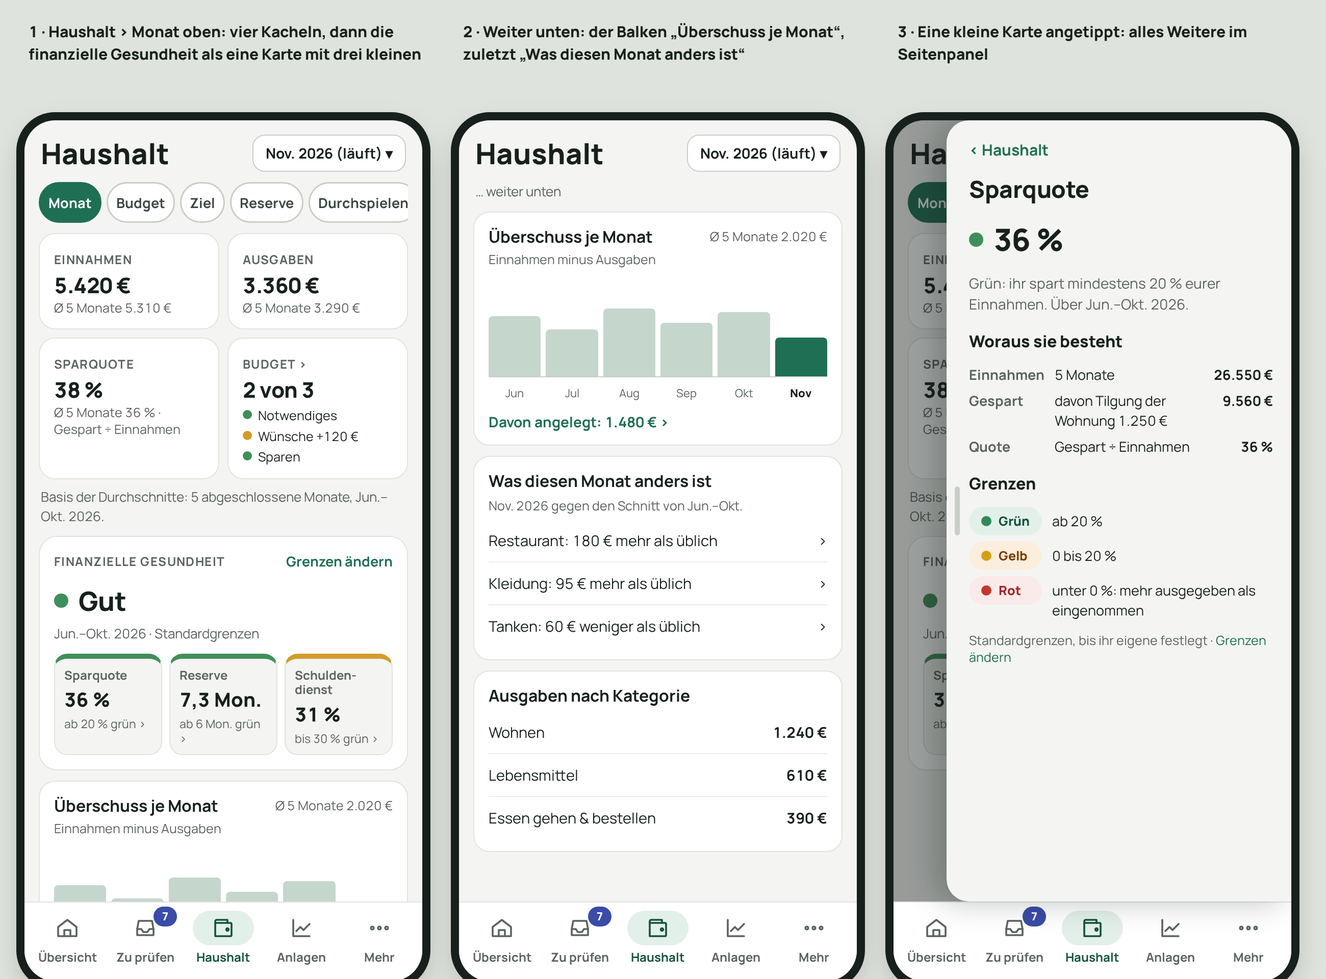
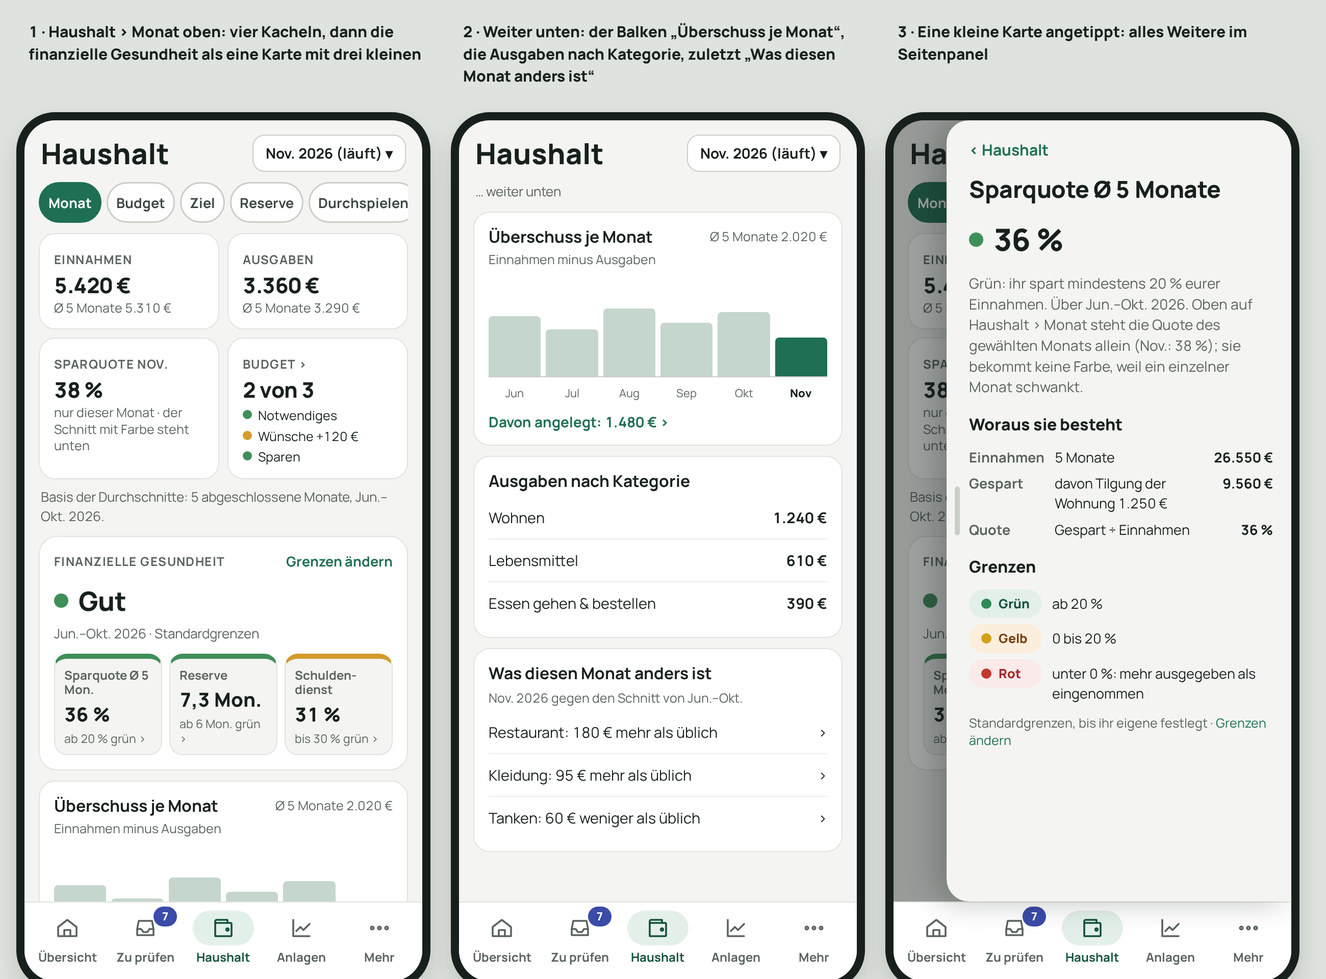
docs: mockup 19g with Luis's answers (categories after the bars, both savings rates named)
Claude-Session: https://claude.ai/code/session_01AnDYAHwbfbCynEyrzGtX59

diff --git a/docs/mockups/19g-monat-phone.html b/docs/mockups/19g-monat-phone.html
@@ -354,7 +354,7 @@ body{background:#dfe3dd}
 <body><div class="frames"><div><p class="cap">1 · Haushalt › Monat oben: vier Kacheln, dann die finanzielle Gesundheit als eine Karte mit drei kleinen</p><div class="frame"><div style="position:absolute;inset:0 0 78px 0;overflow:hidden"><div class="mhead"><div><h1 style="font-size:28px;font-weight:800">Haushalt</h1></div><span class="msel">Nov. 2026 (läuft) ▾</span></div><div class="ph-body tight"><div class="tbar5"><a class="chip on" href="#">Monat</a><a class="chip" href="#">Budget</a><a class="chip" href="#">Ziel</a><a class="chip" href="#">Reserve</a><a class="chip" href="#">Durchspielen</a></div><div class="kp">
 <a class="t" href="#"><span class="k">Einnahmen</span><span class="v">5.420 €</span><span class="sub">Ø 5 Monate 5.310 €</span></a>
 <a class="t" href="#"><span class="k">Ausgaben</span><span class="v">3.360 €</span><span class="sub">Ø 5 Monate 3.290 €</span></a>
-<a class="t" href="#"><span class="k">Sparquote</span><span class="v">38 %</span><span class="sub">Ø 5 Monate 36 % · Gespart ÷ Einnahmen</span></a>
+<a class="t" href="#"><span class="k">Sparquote Nov.</span><span class="v">38 %</span><span class="sub">nur dieser Monat · der Schnitt mit Farbe steht unten</span></a>
 <a class="t" href="#"><span class="k">Budget ›</span><span class="v">2 von 3</span><span class="bdots"><span><i class="dot dg"></i>Notwendiges</span><span><i class="dot da"></i>Wünsche +120 €</span><span><i class="dot dg"></i>Sparen</span></span></a>
 </div>
 <p class="hint" style="margin:-2px 2px 0">Basis der Durchschnitte: 5 abgeschlossene Monate, Jun.–Okt. 2026.</p><div class="health">
@@ -362,22 +362,22 @@ body{background:#dfe3dd}
 <span class="hword"><i></i>Gut</span>
 <span class="sub" style="font-size:13px;margin-top:-6px">Jun.–Okt. 2026 · Standardgrenzen</span>
 <div class="hfigs">
-<a class="hfig g" href="#"><span class="n">Sparquote</span><b>36 %</b><span class="w">ab 20 % grün ›</span></a>
+<a class="hfig g" href="#"><span class="n">Sparquote Ø 5 Mon.</span><b>36 %</b><span class="w">ab 20 % grün ›</span></a>
 <a class="hfig g" href="#"><span class="n">Reserve</span><b>7,3 Mon.</b><span class="w">ab 6 Mon. grün ›</span></a>
 <a class="hfig a" href="#"><span class="n">Schulden&shy;dienst</span><b>31 %</b><span class="w">bis 30 % grün ›</span></a>
 </div></div><div class="t" style="display:flex;flex-direction:column;gap:2px"><div class="between"><b style="font-size:16px">Überschuss je Monat</b><span class="sub" style="font-size:12.5px">Ø 5 Monate 2.020 €</span></div>
 <span class="sub" style="font-size:12.5px">Einnahmen minus Ausgaben</span>
 <div class="bars"><span class="b"><i style="height:62%"></i></span><span class="b"><i style="height:48%"></i></span><span class="b"><i style="height:70%"></i></span><span class="b"><i style="height:55%"></i></span><span class="b"><i style="height:66%"></i></span><span class="b on"><i style="height:40%"></i></span></div><div class="blab" style="margin-top:6px"><span class="">Jun</span><span class="">Jul</span><span class="">Aug</span><span class="">Sep</span><span class="">Okt</span><span class="on">Nov</span></div>
-<a href="#" style="font-size:14px;font-weight:700;margin-top:8px">Davon angelegt: 1.480 € ›</a></div></div></div><nav class="bar"><a class="" href="#"><span class="ic"><svg width="24" height="24" viewBox="0 0 24 24" fill="none" stroke="currentColor" stroke-width="1.8" stroke-linecap="round" stroke-linejoin="round" aria-hidden="true"><path d="M3 11 12 4l9 7v9H3z"/><path d="M9 20v-6h6v6"/></svg></span>Übersicht</a><a class="" href="#"><span class="ic"><svg width="24" height="24" viewBox="0 0 24 24" fill="none" stroke="currentColor" stroke-width="1.8" stroke-linecap="round" stroke-linejoin="round" aria-hidden="true"><path d="M4 13h4l2 3h4l2-3h4"/><path d="M5.5 5h13l1.5 8v6H4v-6z"/></svg></span>Zu prüfen<span class="count">7</span></a><a class="on" href="#"><span class="ic"><svg width="24" height="24" viewBox="0 0 24 24" fill="none" stroke="currentColor" stroke-width="1.8" stroke-linecap="round" stroke-linejoin="round" aria-hidden="true"><path d="M4 7h15a1 1 0 0 1 1 1v11a1 1 0 0 1-1 1H4z"/><path d="M4 7V5.5A1.5 1.5 0 0 1 5.5 4H16v3"/><circle cx="16" cy="13.5" r="1.2"/></svg></span>Haushalt</a><a class="" href="#"><span class="ic"><svg width="24" height="24" viewBox="0 0 24 24" fill="none" stroke="currentColor" stroke-width="1.8" stroke-linecap="round" stroke-linejoin="round" aria-hidden="true"><path d="M4 4v16h16"/><path d="m7 15 4-4 3 3 6-6"/></svg></span>Anlagen</a><a class="" href="#"><span class="ic"><svg width="24" height="24" viewBox="0 0 24 24" fill="none" stroke="currentColor" stroke-width="1.8" stroke-linecap="round" stroke-linejoin="round" aria-hidden="true"><circle cx="5" cy="12" r="1.4"/><circle cx="12" cy="12" r="1.4"/><circle cx="19" cy="12" r="1.4"/></svg></span>Mehr</a></nav></div></div><div><p class="cap">2 · Weiter unten: der Balken „Überschuss je Monat“, zuletzt „Was diesen Monat anders ist“</p><div class="frame"><div style="position:absolute;inset:0 0 78px 0;overflow:hidden"><div class="mhead"><div><h1 style="font-size:28px;font-weight:800">Haushalt</h1></div><span class="msel">Nov. 2026 (läuft) ▾</span></div><div class="ph-body tight"><p class="hint" style="margin:0 2px">… weiter unten</p><div class="t" style="display:flex;flex-direction:column;gap:2px"><div class="between"><b style="font-size:16px">Überschuss je Monat</b><span class="sub" style="font-size:12.5px">Ø 5 Monate 2.020 €</span></div>
+<a href="#" style="font-size:14px;font-weight:700;margin-top:8px">Davon angelegt: 1.480 € ›</a></div></div></div><nav class="bar"><a class="" href="#"><span class="ic"><svg width="24" height="24" viewBox="0 0 24 24" fill="none" stroke="currentColor" stroke-width="1.8" stroke-linecap="round" stroke-linejoin="round" aria-hidden="true"><path d="M3 11 12 4l9 7v9H3z"/><path d="M9 20v-6h6v6"/></svg></span>Übersicht</a><a class="" href="#"><span class="ic"><svg width="24" height="24" viewBox="0 0 24 24" fill="none" stroke="currentColor" stroke-width="1.8" stroke-linecap="round" stroke-linejoin="round" aria-hidden="true"><path d="M4 13h4l2 3h4l2-3h4"/><path d="M5.5 5h13l1.5 8v6H4v-6z"/></svg></span>Zu prüfen<span class="count">7</span></a><a class="on" href="#"><span class="ic"><svg width="24" height="24" viewBox="0 0 24 24" fill="none" stroke="currentColor" stroke-width="1.8" stroke-linecap="round" stroke-linejoin="round" aria-hidden="true"><path d="M4 7h15a1 1 0 0 1 1 1v11a1 1 0 0 1-1 1H4z"/><path d="M4 7V5.5A1.5 1.5 0 0 1 5.5 4H16v3"/><circle cx="16" cy="13.5" r="1.2"/></svg></span>Haushalt</a><a class="" href="#"><span class="ic"><svg width="24" height="24" viewBox="0 0 24 24" fill="none" stroke="currentColor" stroke-width="1.8" stroke-linecap="round" stroke-linejoin="round" aria-hidden="true"><path d="M4 4v16h16"/><path d="m7 15 4-4 3 3 6-6"/></svg></span>Anlagen</a><a class="" href="#"><span class="ic"><svg width="24" height="24" viewBox="0 0 24 24" fill="none" stroke="currentColor" stroke-width="1.8" stroke-linecap="round" stroke-linejoin="round" aria-hidden="true"><circle cx="5" cy="12" r="1.4"/><circle cx="12" cy="12" r="1.4"/><circle cx="19" cy="12" r="1.4"/></svg></span>Mehr</a></nav></div></div><div><p class="cap">2 · Weiter unten: der Balken „Überschuss je Monat“, die Ausgaben nach Kategorie, zuletzt „Was diesen Monat anders ist“</p><div class="frame"><div style="position:absolute;inset:0 0 78px 0;overflow:hidden"><div class="mhead"><div><h1 style="font-size:28px;font-weight:800">Haushalt</h1></div><span class="msel">Nov. 2026 (läuft) ▾</span></div><div class="ph-body tight"><p class="hint" style="margin:0 2px">… weiter unten</p><div class="t" style="display:flex;flex-direction:column;gap:2px"><div class="between"><b style="font-size:16px">Überschuss je Monat</b><span class="sub" style="font-size:12.5px">Ø 5 Monate 2.020 €</span></div>
 <span class="sub" style="font-size:12.5px">Einnahmen minus Ausgaben</span>
 <div class="bars"><span class="b"><i style="height:62%"></i></span><span class="b"><i style="height:48%"></i></span><span class="b"><i style="height:70%"></i></span><span class="b"><i style="height:55%"></i></span><span class="b"><i style="height:66%"></i></span><span class="b on"><i style="height:40%"></i></span></div><div class="blab" style="margin-top:6px"><span class="">Jun</span><span class="">Jul</span><span class="">Aug</span><span class="">Sep</span><span class="">Okt</span><span class="on">Nov</span></div>
-<a href="#" style="font-size:14px;font-weight:700;margin-top:8px">Davon angelegt: 1.480 € ›</a></div><div class="t" style="display:flex;flex-direction:column;gap:4px"><b style="font-size:16px">Was diesen Monat anders ist</b><span class="sub" style="font-size:12.5px">Nov. 2026 gegen den Schnitt von Jun.–Okt.</span>
-<div class="rows"><a href="#"><span>Restaurant: 180 € mehr als üblich</span><span>›</span></a><a href="#"><span>Kleidung: 95 € mehr als üblich</span><span>›</span></a><a href="#"><span>Tanken: 60 € weniger als üblich</span><span>›</span></a></div></div><div class="t" style="display:flex;flex-direction:column;gap:4px"><b style="font-size:16px">Ausgaben nach Kategorie</b>
+<a href="#" style="font-size:14px;font-weight:700;margin-top:8px">Davon angelegt: 1.480 € ›</a></div><div class="t" style="display:flex;flex-direction:column;gap:4px"><b style="font-size:16px">Ausgaben nach Kategorie</b>
 <div class="rows"><a href="#"><span>Wohnen</span><b>1.240 €</b></a><a href="#"><span>Lebensmittel</span><b>610 €</b></a><a href="#"><span>Essen gehen &amp; bestellen</span><b>390 €</b></a></div></div>
-</div></div><nav class="bar"><a class="" href="#"><span class="ic"><svg width="24" height="24" viewBox="0 0 24 24" fill="none" stroke="currentColor" stroke-width="1.8" stroke-linecap="round" stroke-linejoin="round" aria-hidden="true"><path d="M3 11 12 4l9 7v9H3z"/><path d="M9 20v-6h6v6"/></svg></span>Übersicht</a><a class="" href="#"><span class="ic"><svg width="24" height="24" viewBox="0 0 24 24" fill="none" stroke="currentColor" stroke-width="1.8" stroke-linecap="round" stroke-linejoin="round" aria-hidden="true"><path d="M4 13h4l2 3h4l2-3h4"/><path d="M5.5 5h13l1.5 8v6H4v-6z"/></svg></span>Zu prüfen<span class="count">7</span></a><a class="on" href="#"><span class="ic"><svg width="24" height="24" viewBox="0 0 24 24" fill="none" stroke="currentColor" stroke-width="1.8" stroke-linecap="round" stroke-linejoin="round" aria-hidden="true"><path d="M4 7h15a1 1 0 0 1 1 1v11a1 1 0 0 1-1 1H4z"/><path d="M4 7V5.5A1.5 1.5 0 0 1 5.5 4H16v3"/><circle cx="16" cy="13.5" r="1.2"/></svg></span>Haushalt</a><a class="" href="#"><span class="ic"><svg width="24" height="24" viewBox="0 0 24 24" fill="none" stroke="currentColor" stroke-width="1.8" stroke-linecap="round" stroke-linejoin="round" aria-hidden="true"><path d="M4 4v16h16"/><path d="m7 15 4-4 3 3 6-6"/></svg></span>Anlagen</a><a class="" href="#"><span class="ic"><svg width="24" height="24" viewBox="0 0 24 24" fill="none" stroke="currentColor" stroke-width="1.8" stroke-linecap="round" stroke-linejoin="round" aria-hidden="true"><circle cx="5" cy="12" r="1.4"/><circle cx="12" cy="12" r="1.4"/><circle cx="19" cy="12" r="1.4"/></svg></span>Mehr</a></nav></div></div><div><p class="cap">3 · Eine kleine Karte angetippt: alles Weitere im Seitenpanel</p><div class="frame"><div style="position:absolute;inset:0 0 78px 0;overflow:hidden"><div class="mhead"><div><h1 style="font-size:28px;font-weight:800">Haushalt</h1></div><span class="msel">Nov. 2026 (läuft) ▾</span></div><div class="ph-body tight"><div class="tbar5"><a class="chip on" href="#">Monat</a><a class="chip" href="#">Budget</a><a class="chip" href="#">Ziel</a><a class="chip" href="#">Reserve</a><a class="chip" href="#">Durchspielen</a></div><div class="kp">
+<div class="t" style="display:flex;flex-direction:column;gap:4px"><b style="font-size:16px">Was diesen Monat anders ist</b><span class="sub" style="font-size:12.5px">Nov. 2026 gegen den Schnitt von Jun.–Okt.</span>
+<div class="rows"><a href="#"><span>Restaurant: 180 € mehr als üblich</span><span>›</span></a><a href="#"><span>Kleidung: 95 € mehr als üblich</span><span>›</span></a><a href="#"><span>Tanken: 60 € weniger als üblich</span><span>›</span></a></div></div></div></div><nav class="bar"><a class="" href="#"><span class="ic"><svg width="24" height="24" viewBox="0 0 24 24" fill="none" stroke="currentColor" stroke-width="1.8" stroke-linecap="round" stroke-linejoin="round" aria-hidden="true"><path d="M3 11 12 4l9 7v9H3z"/><path d="M9 20v-6h6v6"/></svg></span>Übersicht</a><a class="" href="#"><span class="ic"><svg width="24" height="24" viewBox="0 0 24 24" fill="none" stroke="currentColor" stroke-width="1.8" stroke-linecap="round" stroke-linejoin="round" aria-hidden="true"><path d="M4 13h4l2 3h4l2-3h4"/><path d="M5.5 5h13l1.5 8v6H4v-6z"/></svg></span>Zu prüfen<span class="count">7</span></a><a class="on" href="#"><span class="ic"><svg width="24" height="24" viewBox="0 0 24 24" fill="none" stroke="currentColor" stroke-width="1.8" stroke-linecap="round" stroke-linejoin="round" aria-hidden="true"><path d="M4 7h15a1 1 0 0 1 1 1v11a1 1 0 0 1-1 1H4z"/><path d="M4 7V5.5A1.5 1.5 0 0 1 5.5 4H16v3"/><circle cx="16" cy="13.5" r="1.2"/></svg></span>Haushalt</a><a class="" href="#"><span class="ic"><svg width="24" height="24" viewBox="0 0 24 24" fill="none" stroke="currentColor" stroke-width="1.8" stroke-linecap="round" stroke-linejoin="round" aria-hidden="true"><path d="M4 4v16h16"/><path d="m7 15 4-4 3 3 6-6"/></svg></span>Anlagen</a><a class="" href="#"><span class="ic"><svg width="24" height="24" viewBox="0 0 24 24" fill="none" stroke="currentColor" stroke-width="1.8" stroke-linecap="round" stroke-linejoin="round" aria-hidden="true"><circle cx="5" cy="12" r="1.4"/><circle cx="12" cy="12" r="1.4"/><circle cx="19" cy="12" r="1.4"/></svg></span>Mehr</a></nav></div></div><div><p class="cap">3 · Eine kleine Karte angetippt: alles Weitere im Seitenpanel</p><div class="frame"><div style="position:absolute;inset:0 0 78px 0;overflow:hidden"><div class="mhead"><div><h1 style="font-size:28px;font-weight:800">Haushalt</h1></div><span class="msel">Nov. 2026 (läuft) ▾</span></div><div class="ph-body tight"><div class="tbar5"><a class="chip on" href="#">Monat</a><a class="chip" href="#">Budget</a><a class="chip" href="#">Ziel</a><a class="chip" href="#">Reserve</a><a class="chip" href="#">Durchspielen</a></div><div class="kp">
 <a class="t" href="#"><span class="k">Einnahmen</span><span class="v">5.420 €</span><span class="sub">Ø 5 Monate 5.310 €</span></a>
 <a class="t" href="#"><span class="k">Ausgaben</span><span class="v">3.360 €</span><span class="sub">Ø 5 Monate 3.290 €</span></a>
-<a class="t" href="#"><span class="k">Sparquote</span><span class="v">38 %</span><span class="sub">Ø 5 Monate 36 % · Gespart ÷ Einnahmen</span></a>
+<a class="t" href="#"><span class="k">Sparquote Nov.</span><span class="v">38 %</span><span class="sub">nur dieser Monat · der Schnitt mit Farbe steht unten</span></a>
 <a class="t" href="#"><span class="k">Budget ›</span><span class="v">2 von 3</span><span class="bdots"><span><i class="dot dg"></i>Notwendiges</span><span><i class="dot da"></i>Wünsche +120 €</span><span><i class="dot dg"></i>Sparen</span></span></a>
 </div>
 <p class="hint" style="margin:-2px 2px 0">Basis der Durchschnitte: 5 abgeschlossene Monate, Jun.–Okt. 2026.</p><div class="health">
@@ -385,14 +385,14 @@ body{background:#dfe3dd}
 <span class="hword"><i></i>Gut</span>
 <span class="sub" style="font-size:13px;margin-top:-6px">Jun.–Okt. 2026 · Standardgrenzen</span>
 <div class="hfigs">
-<a class="hfig g" href="#"><span class="n">Sparquote</span><b>36 %</b><span class="w">ab 20 % grün ›</span></a>
+<a class="hfig g" href="#"><span class="n">Sparquote Ø 5 Mon.</span><b>36 %</b><span class="w">ab 20 % grün ›</span></a>
 <a class="hfig g" href="#"><span class="n">Reserve</span><b>7,3 Mon.</b><span class="w">ab 6 Mon. grün ›</span></a>
 <a class="hfig a" href="#"><span class="n">Schulden&shy;dienst</span><b>31 %</b><span class="w">bis 30 % grün ›</span></a>
 </div></div></div></div><div class="dim"></div><div class="sheet"><span class="grip"></span>
 <a class="crumb" href="#">‹ Haushalt</a>
-<h2>Sparquote</h2>
+<h2>Sparquote Ø 5 Monate</h2>
 <span class="hword" style="font-size:30px"><i></i>36 %</span>
-<p class="sub" style="font-size:14px">Grün: ihr spart mindestens 20 % eurer Einnahmen. Über Jun.–Okt. 2026.</p>
+<p class="sub" style="font-size:14px">Grün: ihr spart mindestens 20 % eurer Einnahmen. Über Jun.–Okt. 2026. Oben auf Haushalt › Monat steht die Quote des gewählten Monats allein (Nov.: 38 %); sie bekommt keine Farbe, weil ein einzelner Monat schwankt.</p>
 <h3>Woraus sie besteht</h3>
 <div class="walk"><span class="y">Einnahmen</span><span>5 Monate</span><b>26.550 €</b><span class="y">Gespart</span><span>davon Tilgung der Wohnung 1.250 €</span><b>9.560 €</b><span class="y">Quote</span><span>Gespart ÷ Einnahmen</span><b>36 %</b></div>
 <h3>Grenzen</h3>

diff --git a/docs/mockups/README.md b/docs/mockups/README.md
@@ -250,7 +250,7 @@ longest of the three) and unused width on a large computer screen.
 | `19d-annahmen-phone.png` / `.html`, `19d-annahmen-desktop.png` / `.html` | The „Annahmen“ panel made findable and its effect visible (phase 10 §7.9, drawn 24 Nov 2026 after Luis tested wave 3: „I made some changes but I have no idea where they are reflected“; nothing built; the panel of frames 1–5 replaced the same day by 19e at Luis's word, „I think the assumptions part should be its own section“, so only frame 6 is still current, approved with 19e the same day and specced as phase 10 D300): a real button „Annahmen ändern“ on Haushalt › Budget with one line of what applies, replacing the dashed row (1); each assumption as a plain question with its value and „Wirkt auf“ links to where it shows (2, 2b); editing one with a box „Was sich ändert“ that lists only the figures that move, before → after, live (3); after „Speichern“ a dismissible line on top with the same list and links to Reserve, Anlagen and Anlegbar (4); and, at Luis's word („These should just be added to the wants and needs as expected payments“), the card „Regelmäßige Zahlungen“ on Haushalt › Monat dropped: Notwendiges and Wünsche each open into „Feste Zahlungen (erwartet)“ (a yearly one as its monthly share, a price rise as a badge, „vielleicht beendet?“ answered inline) and „Veränderlich“, the two adding up to the measured mean (6); the computer frame (5) shows the Budget with both classes open and the panel at the side, Einkommen being edited |
 | `19e-durchspielen-phone.png` / `.html`, `19e-durchspielen-desktop.png` / `.html` | „Durchspielen“, the assumptions as their own section instead of 19d's panel (phase 10 §7.9, drawn 24 Nov 2026 at Luis's word: „I think the assumptions part should be its own section. Where you can see the current vs the assumption values. The way it is now is too confusing. It's also treated as a cornerstone of the app when it should simply be a way to see how a change in expenses affects investment and savings and net worth in the future.“; approved the same day, „Yeah this looks better“, with 19d frame 6; specced as phase 10 §7.10 (D299, D300), not built; this said „not approved“ until then): a fifth Haushalt tab after Monat, Budget, Ziel and Reserve; a two-column comparison, „Heute“ the measured mean of the closed months, read-only, and „Angenommen“ a field per row, empty meaning as today, grouped into Einkommen, Ausgaben by Notwendiges and Wünsche (each opening into its categories) and Einmalig (a one-off payment or income with its month), a changed row green with its difference, and one „Ab wann gilt das?“ month (1); below it „Was das bewirkt“, Heute against Mit Änderungen, live while typing, for Anlegbar pro Monat, Sparquote, Reserve-Ziel erreicht, Vermögen in 10 Jahren and the goal, each row opening its place, with „Zurücksetzen“ and „Als Plan behalten“ and the note that nothing changes elsewhere until then (2); after „Als Plan behalten“ Reserve, Ziel, Budget and the projection on Anlagen use the plan and say so in one small line „mit 4 geplanten Änderungen · ansehen ›“, drawn on Haushalt › Reserve (3); the panel's other settings each inline where they act: the Reserve-Ziel (months and accounts) with „ändern“ on Reserve, the targets with „Ziele ändern“ on Budget, the buffer beside „Anlegbar pro Monat“, the yearly rates with „Rendite ändern“ on the projection card on Anlagen (4); the computer frame puts the comparison full width with a Unterschied column and the results at the side. No button on other tabs and no summary line. 19d frame 6 (Notwendiges and Wünsche opening into „Feste Zahlungen (erwartet)“ and „Veränderlich“) stays current |
 | `19f-ziel-phone.png` / `.html` | The goal as the centre of the app (phase 10 §7.11, D301–D303, drawn 24 Nov 2026 and approved 24 Nov 2026 (Luis: „this looks good“; this said „not approved“ until then), at Luis's word: „I want the goal to be a cornerstone feature of the app“; not approved, nothing built; every figure invented): Übersicht's goal card with one word from the routes and „Anlegbar jetzt“ (1); Haushalt › Ziel with what the calculation assumes, the money above the reserve invested and the flat's sale proceeds invested after its sale year (2); three routes, „Mehr anlegen“, „Mehr Rendite“ with how often the household's mix reached that return in past windows, „Weniger ausgeben“ (3); Haushalt › Reserve with the money above the reserve target investable now (4); a goal without a saved property scenario, and the four words (5) |
-| `19g-monat-phone.png` / `.html` | Haushalt › Monat reordered (drawn 24 Nov 2026 at Luis's word: „for the monat tab the 4 cards should go on the top … You can replace it with the budget card. Then the key figures … one big card that says Financial Health … and then inside of it smaller cards with the key figures and their colors. Any additional info should be in the side panel. The income card should be removed … Then the graph bar. Finally the what has changed this month card“; not approved, nothing built; every figure invented): four tiles on top, Einnahmen, Ausgaben, Sparquote and the Budget in place of „Ohne Kategorie“, which Zu prüfen already counts; one card „Finanzielle Gesundheit“ with its word and the three figures as small cards in their colour (1); „Überschuss je Monat“, then „Was diesen Monat anders ist“, the income card gone, „Ausgaben nach Kategorie“ drawn at the foot pending Luis's answer (2); a small card tapped opens what it is made of and its limits in the side panel (3) |
+| `19g-monat-phone.png` / `.html` | Haushalt › Monat reordered (drawn 24 Nov 2026 at Luis's word: „for the monat tab the 4 cards should go on the top … You can replace it with the budget card. Then the key figures … one big card that says Financial Health … and then inside of it smaller cards with the key figures and their colors. Any additional info should be in the side panel. The income card should be removed … Then the graph bar. Finally the what has changed this month card“; not approved, nothing built; every figure invented): four tiles on top, Einnahmen, Ausgaben, Sparquote and the Budget in place of „Ohne Kategorie“, which Zu prüfen already counts; one card „Finanzielle Gesundheit“ with its word and the three figures as small cards in their colour (1); „Überschuss je Monat“, then „Was diesen Monat anders ist“, the income card gone, „Ausgaben nach Kategorie“ after the bars and before „Was diesen Monat anders ist“, and both savings rates kept with their difference named: the tile the chosen month alone, without colour, the small card the mean over the closed months, coloured (both at Luis's word of 24 Nov 2026: „The spending per category can go after the bar chart. For the spar quote please keep both but specify the difference.“) (2); a small card tapped opens what it is made of and its limits in the side panel (3) |
 | `19h-budget-phone.png` / `.html` | Haushalt › Budget streamlined (drawn 24 Nov 2026 at Luis's word: „we can remove the housing card. Then we can combine somehow the target card with the main budget card … I would prefer to remove that [one-off] card … the true one offs are payments that you're not expected to do every year … The what happens to the rest card can be streamlined as well“; not approved, nothing built; every figure and the categories Möbel and Umzug invented): one card with income, the three classes, fixed and variable per class and each target, „Ziele ändern“ inside it, the housing card gone, one hint where cutting a want helps the goal, „Was übrig bleibt“ as four lines (1); „Wünsche“ tapped: fixed and variable, variable averaged over the year, the want that helps the goal most (2); one-offs as whole categories switched on or off instead of a question per payment, the „Vielleicht einmalig?“ card gone (3) |
 | `20-assets-phone.png` / `.html` | Anlagen (chosen 20 Nov 2026): Übersicht, ETF and Krypto as chips; positions as rows with value; a tapped coin's open lots with „steuerfrei ab“ in the panel; price-source and typed-price forms in the panel; the 31 Dec holdings statement Redrawn 20 Nov 2026 (D280): every value at the newest daily price with source and day, the ETF rows as units and today's value, the depot report only as a check in the position's panel, a fund with no daily price marked „Kurs aus dem Bericht vom …“. |
 | `20-assets-desktop.png` / `.html` | The same on the computer, a position in the side panel |
